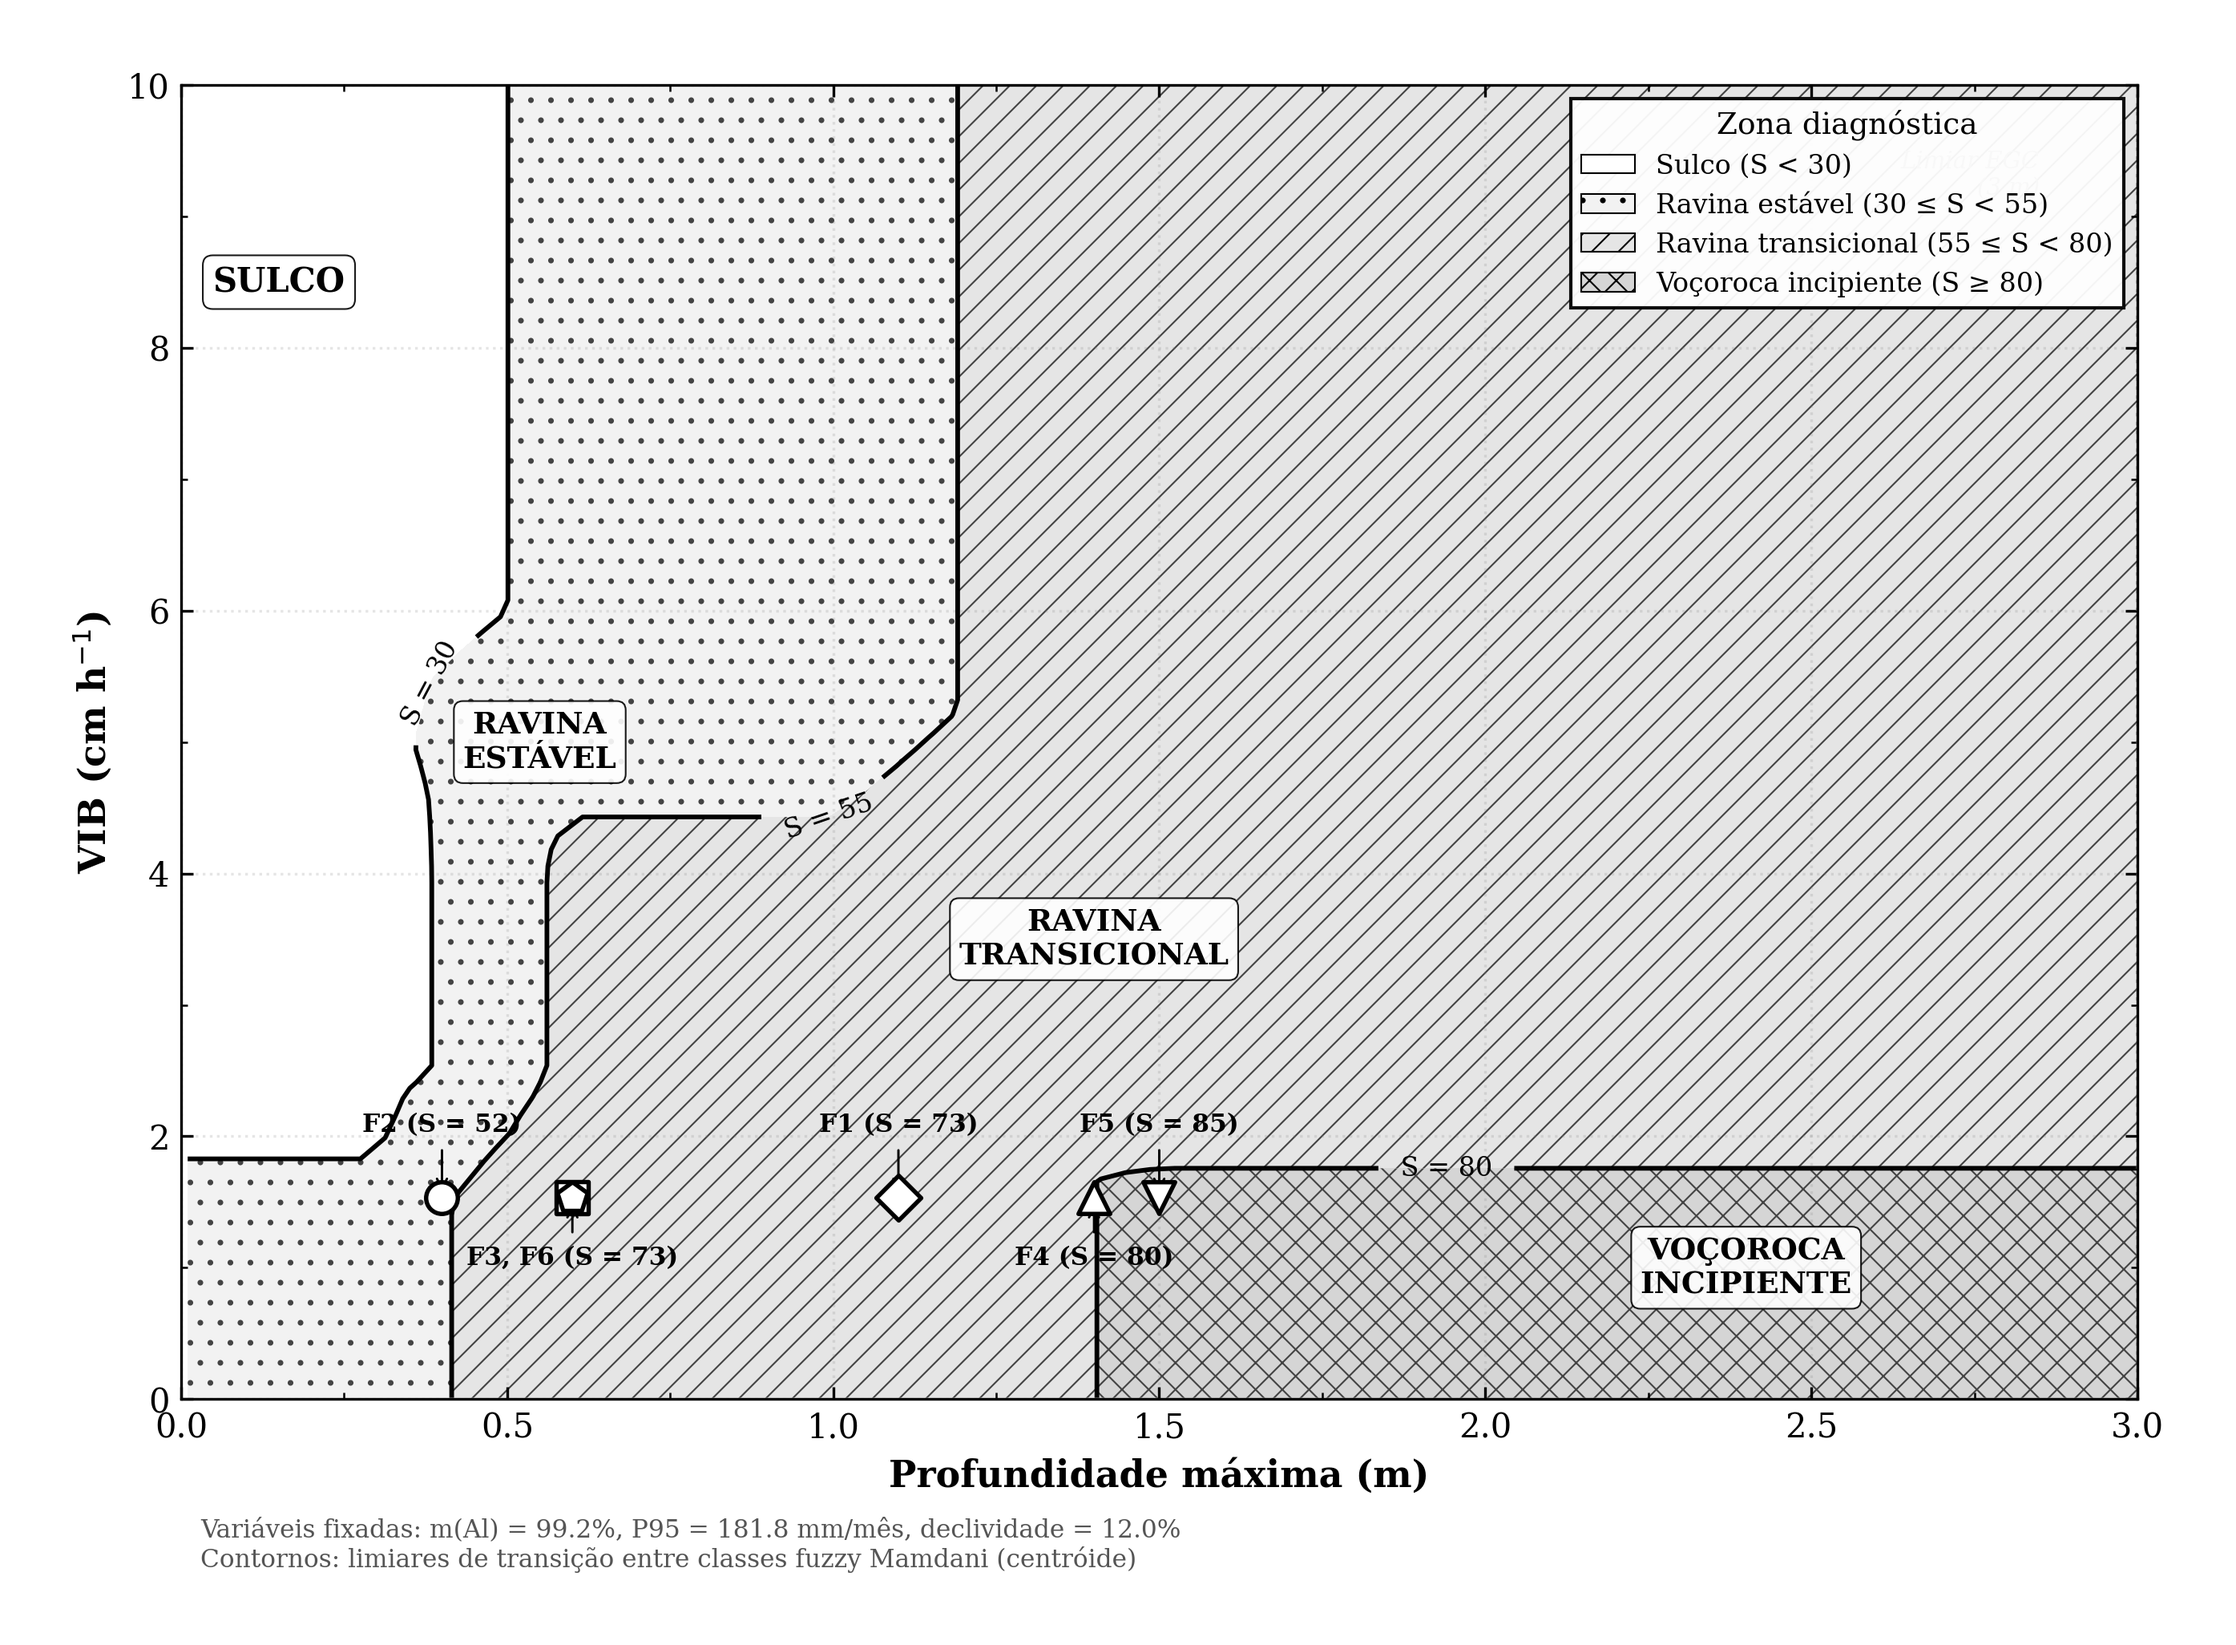
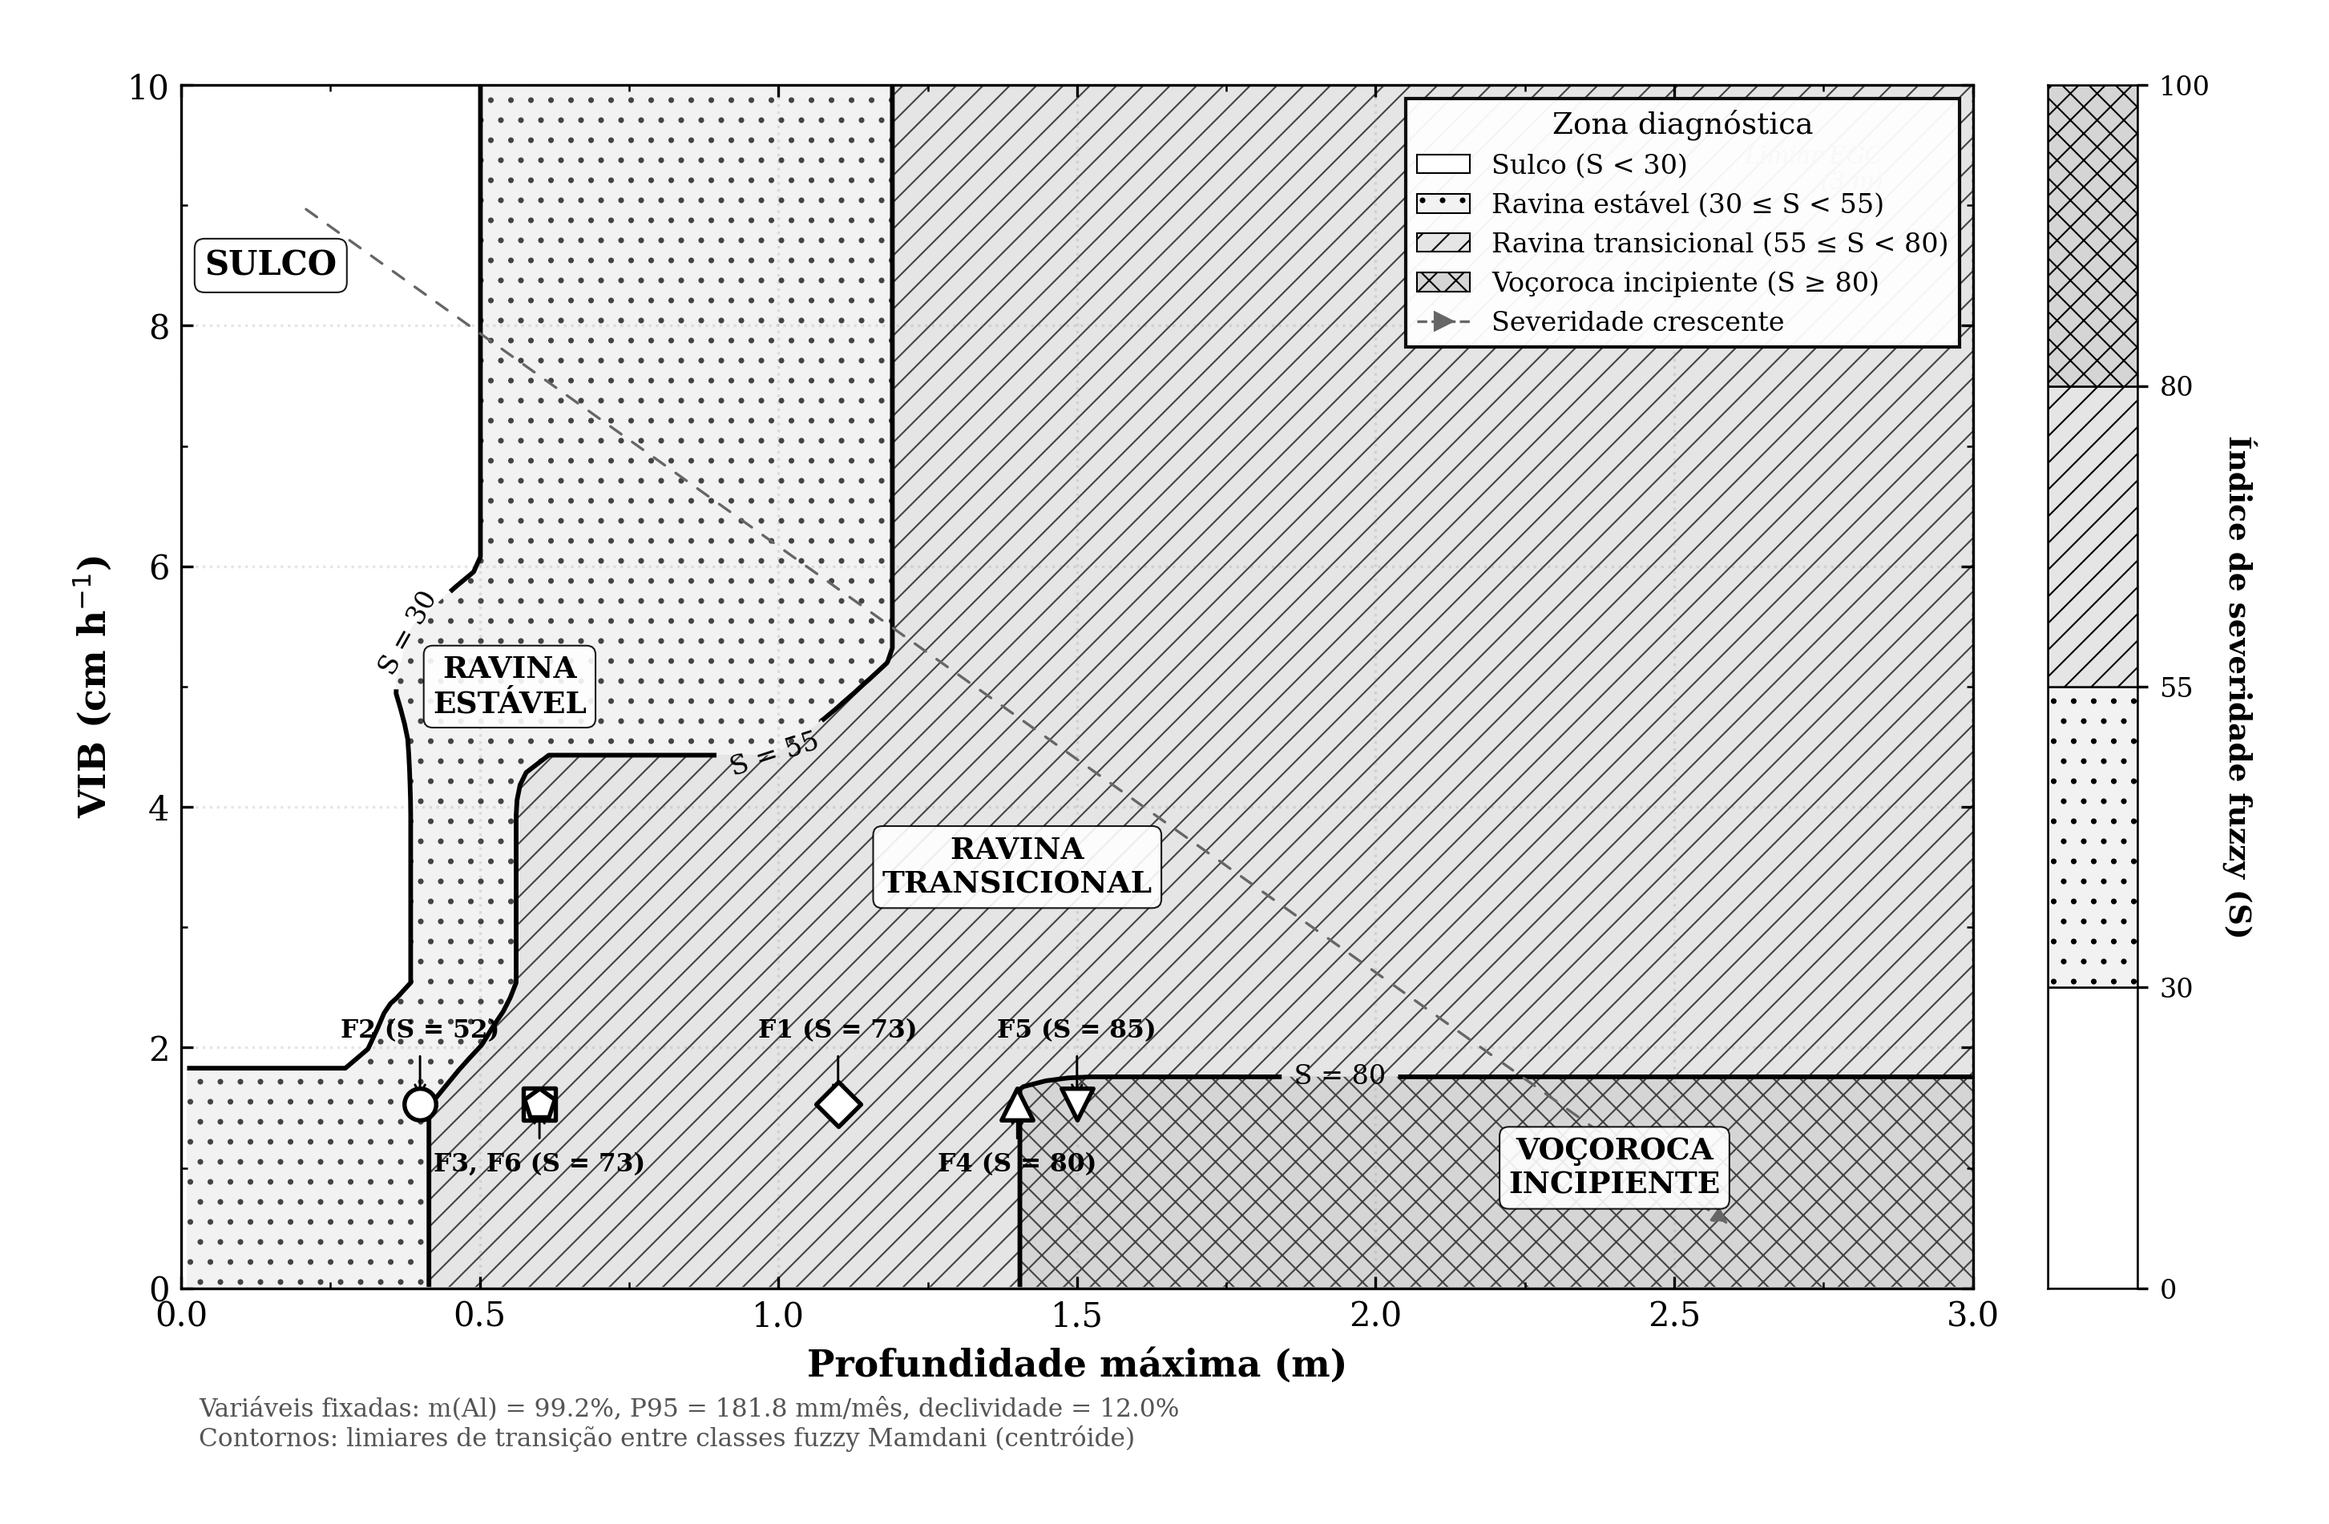
atualizações de imagens

Changed region(s): [[0.0312, 0.031, 0.9667, 0.9616]]

diff --git a/1-MANUSCRITOS/scripts/classificacao_fuzzy_erosiva.py b/1-MANUSCRITOS/scripts/classificacao_fuzzy_erosiva.py
@@ -699,24 +699,19 @@ def fig_radar():
 # ── Executar geração de figuras ───────────────────────────────────────────────
 
 # ── Fig. 7: Ábaco de classificação processo-funcional (hachuras) ─────────────
-def fig_abaco_classificacao():
-    """Ábaco bidimensional com hachuras profissionais (grayscale-safe).
-
-    Zonas delimitadas por contornos S = 30, 55, 80 do sistema fuzzy Mamdani,
-    diferenciadas por hachuras progressivas (vazio → pontos → diagonais →
-    cruzado) em vez de cor, garantindo legibilidade em escala de cinza.
-    """
+def fig_abaco_classificacao_v2():
+    """Ábaco v2: mesma estrutura de hachuras + barra lateral de intensidade
+    fuzzy (hachuras progressivas, sem cor) + seta de tendência."""
     import matplotlib.ticker as mticker
-    from matplotlib.patches import Patch
+    from matplotlib.patches import Patch, FancyArrowPatch
     from collections import defaultdict
 
-    # ── Estilo de hachura ─────────────────────────────────────────────────
     _prev_hw = plt.rcParams.get("hatch.linewidth", 1.0)
     _prev_hc = plt.rcParams.get("hatch.color", "black")
     plt.rcParams["hatch.linewidth"] = 0.5
     plt.rcParams["hatch.color"] = "#444444"
 
-    # ── Grid 2-D ──────────────────────────────────────────────────────────
+    # ── Grid 2-D (idêntico à v1) ─────────────────────────────────────────
     n = 80
     prof_arr = np.linspace(0.01, 3.0, n)
     vib_arr  = np.linspace(0.01, 10.0, n)
@@ -741,10 +736,13 @@ def fig_abaco_classificacao():
             except Exception:
                 Z[i, j] = np.nan
 
-    # ── Figura ────────────────────────────────────────────────────────────
-    fig, ax = plt.subplots(figsize=(9, 6.5))
+    # ── Figura com gridspec: ábaco + barra lateral ────────────────────────
+    fig = plt.figure(figsize=(10.5, 6.5))
+    gs = fig.add_gridspec(1, 2, width_ratios=[20, 1], wspace=0.08)
+    ax = fig.add_subplot(gs[0])
+    ax_bar = fig.add_subplot(gs[1])
 
-    # 4 zonas discretas: preenchimento cinza claro + hachura progressiva
+    # ── Zonas com hachuras (idênticas à v1) ───────────────────────────────
     zone_levels  = [0, 30, 55, 80, 100]
     zone_fills   = ["white", "#F2F2F2", "#E5E5E5", "#D5D5D5"]
     zone_hatches = ["", "..", "///", "xxx"]
@@ -758,7 +756,6 @@ def fig_abaco_classificacao():
     ax.contourf(PP, VV, Z, levels=zone_levels, colors=zone_fills,
                 hatches=zone_hatches)
 
-    # Limites entre zonas — linhas pretas contínuas
     cs = ax.contour(PP, VV, Z, levels=[30, 55, 80],
                      colors="black", linewidths=1.4, linestyles="-")
     ax.clabel(cs, inline=True, fontsize=8,
@@ -776,11 +773,16 @@ def fig_abaco_classificacao():
                 bbox=dict(boxstyle="round,pad=0.3", fc="white", ec="black",
                           alpha=0.9, lw=0.5))
 
-    # ── Feições do inventário ─────────────────────────────────────────────
+    # ── Seta de tendência de intensidade (zorder baixo → atrás dos rótulos)
+    ax.annotate("", xy=(2.6, 0.5), xytext=(0.2, 9.0),
+                arrowprops=dict(arrowstyle="-|>", color="#666666",
+                                lw=0.8, ls=(0, (5, 5))),
+                zorder=2)
+
+    # ── Feições do inventário (idêntico à v1) ─────────────────────────────
     markers_map = {"F1": "D", "F2": "o", "F3": "s",
                    "F4": "^", "F5": "v", "F6": "p"}
 
-    # Agrupar feições em posições coincidentes (F3 e F6 se sobrepõem)
     groups = defaultdict(list)
     for _, row in feicoes.iterrows():
         f = row["Feicao"]
@@ -788,14 +790,12 @@ def fig_abaco_classificacao():
         key = (round(row["Prof_max_m"], 2), round(row["VIB_cmh"], 2))
         groups[key].append((f, sev, row))
 
-    # Plotar marcadores (preto/branco)
     for _, row in feicoes.iterrows():
         f = row["Feicao"]
         ax.scatter(row["Prof_max_m"], row["VIB_cmh"],
                    s=90, marker=markers_map[f], facecolors="white",
                    edgecolors="black", linewidths=1.3, zorder=5)
 
-    # Anotações com offsets alternados (acima/abaixo) para evitar sobreposição
     stagger_above = True
     for key in sorted(groups.keys()):
         items = groups[key]
@@ -813,16 +813,22 @@ def fig_abaco_classificacao():
                     arrowprops=dict(arrowstyle="->", color="black", lw=0.7))
         stagger_above = not stagger_above
 
-    # ── Legenda com amostras de hachura ───────────────────────────────────
+    # ── Legenda de hachuras ───────────────────────────────────────────────
+    from matplotlib.lines import Line2D
     legend_patches = [
         Patch(facecolor=f, hatch=h, edgecolor="black", lw=0.5, label=n)
         for f, h, n in zip(zone_fills, zone_hatches, zone_names)
     ]
+    legend_patches.append(
+        Line2D([0], [0], color="#666666", lw=0.8, ls="--",
+               marker=">", markersize=5, markeredgecolor="#666666",
+               label="Severidade crescente")
+    )
     ax.legend(handles=legend_patches, loc="upper right", fontsize=8,
               framealpha=0.95, edgecolor="black", fancybox=False,
               title="Zona diagnóstica", title_fontsize=9)
 
-    # ── Eixos ─────────────────────────────────────────────────────────────
+    # ── Eixos principais ─────────────────────────────────────────────────
     ax.set_xlabel("Profundidade máxima (m)", fontsize=11, fontweight="bold")
     ax.set_ylabel("VIB (cm h$^{-1}$)", fontsize=11, fontweight="bold")
     ax.set_xlim(0, 3.0)
@@ -832,12 +838,10 @@ def fig_abaco_classificacao():
     ax.tick_params(which="both", direction="in", top=True, right=True)
     ax.grid(which="major", alpha=0.2, linestyle=":", color="gray")
 
-    # Referência EGC (limiar 3 m)
     ax.axvline(x=3.0, color="#888", linestyle=":", lw=1.0, alpha=0.5)
     ax.text(2.85, 9.5, "Limiar EGC\n(3 m)", fontsize=7, color="#888",
             ha="right", va="top", fontstyle="italic")
 
-    # Nota de rodapé
     ax.text(0.01, -0.09,
             f"Variáveis fixadas: m(Al) = {m_al_fix}%, "
             f"P95 = {p95_fix} mm/mês, declividade = {decliv_fix}%\n"
@@ -845,12 +849,37 @@ def fig_abaco_classificacao():
             "(centróide)",
             transform=ax.transAxes, fontsize=7.5, color="#555", va="top")
 
+    # ── Barra lateral de intensidade (hachuras, sem cor) ──────────────────
+    bar_labels = ["0", "30", "55", "80", "100"]
+    bar_y = [0, 1, 2, 3]  # posições das faixas
+    for idx in range(4):
+        rect = plt.Rectangle((0, bar_y[idx]), 1, 1,
+                              facecolor=zone_fills[idx],
+                              hatch=zone_hatches[idx],
+                              edgecolor="black", lw=0.6)
+        ax_bar.add_patch(rect)
+
+    ax_bar.set_xlim(0, 1)
+    ax_bar.set_ylim(0, 4)
+    ax_bar.set_xticks([])
+    ax_bar.set_yticks([0, 1, 2, 3, 4])
+    ax_bar.set_yticklabels(bar_labels, fontsize=8)
+    ax_bar.yaxis.tick_right()
+    ax_bar.yaxis.set_label_position("right")
+    ax_bar.set_ylabel("Índice de severidade fuzzy (S)",
+                      fontsize=9, fontweight="bold", rotation=270,
+                      labelpad=14)
+    ax_bar.tick_params(axis="y", length=3, direction="out")
+    ax_bar.set_frame_on(True)
+    for spine in ax_bar.spines.values():
+        spine.set_edgecolor("black")
+        spine.set_linewidth(0.6)
+
     fig.tight_layout()
     fig.savefig(os.path.join(OUT_DIR, "fig_abaco_classificacao.png"),
                 bbox_inches="tight", pad_inches=0.3, dpi=300)
     plt.close()
 
-    # restaurar rcParams
     plt.rcParams["hatch.linewidth"] = _prev_hw
     plt.rcParams["hatch.color"] = _prev_hc
     print("  → fig_abaco_classificacao.png")
@@ -862,7 +891,7 @@ fig_pertinencia()
 fig_pertinencia_feicoes()
 fig_dendrograma()
 fig_radar()
-fig_abaco_classificacao()
+fig_abaco_classificacao_v2()
 print("\nTodas as figuras salvas em:", OUT_DIR)
 
 
